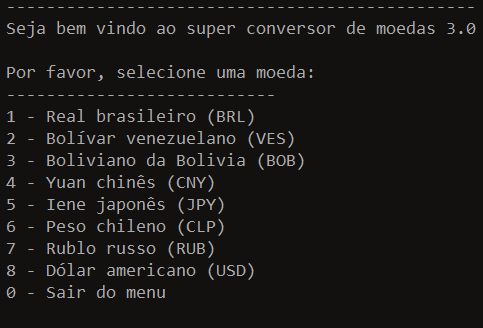
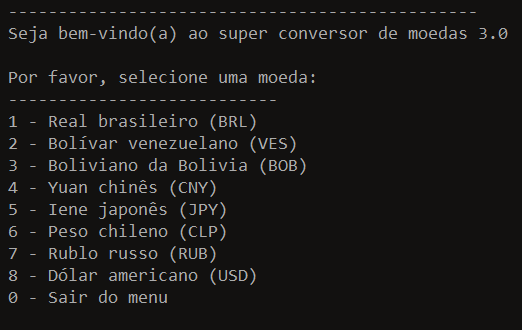
update README

diff --git a/src/main/java/utils/Message.java b/src/main/java/utils/Message.java
@@ -6,7 +6,7 @@ public class Message {
 
     public static void greetings(){
         System.out.println("-----------------------------------------------");
-        System.out.println("Seja bem vindo ao super conversor de moedas 3.0");
+        System.out.println("Seja bem-vindo(a) ao super conversor de moedas 3.0");
         System.out.println();
     }
 
